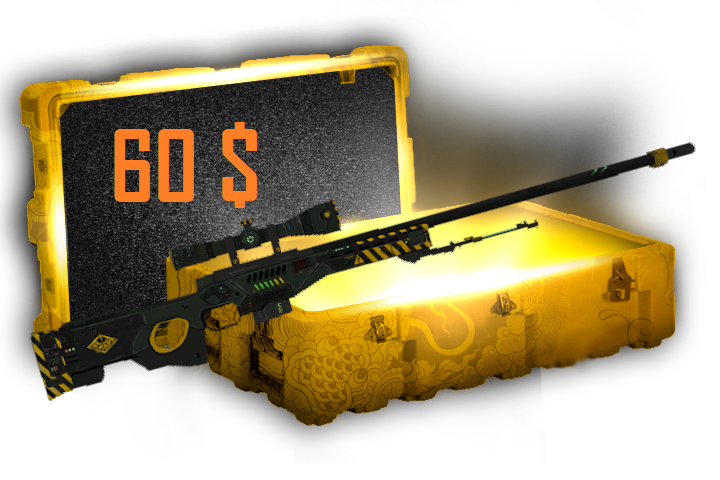
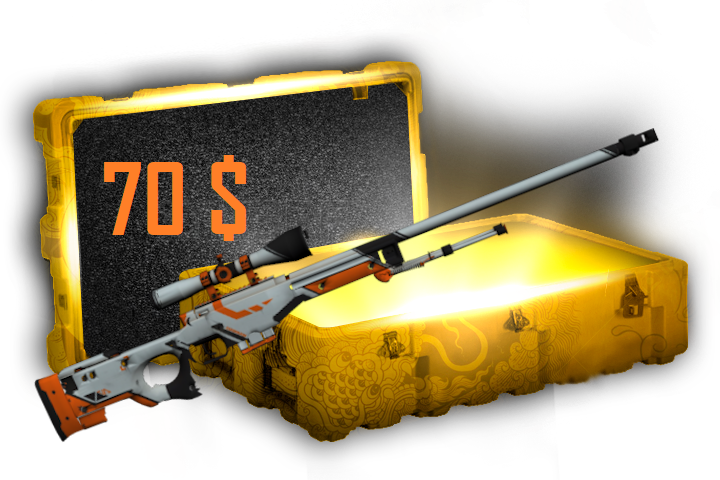
New update
New inventory system, deposit by codes (you can find some working codes in the txt file coupons)

diff --git a/main.py b/main.py
@@ -1,16 +1,22 @@
 from tkinter import*
+from tkinter.messagebox import*
 import case
-import random
+import random,deposit
 
 def update_user_account(ID):
-    print("Bought case "+casenames[ID]+" for "+str(case_prices[ID])+" $.")
+    global user_coins,case_prices
+    user_coins-=case_prices[ID]
+    balance.config(text="Balance: "+str(user_coins))
 
 def keepSkin(info):
-    print("KEEP ",info)
+    global inventory
+    inventory.append(info)
     main_menu(None)
 
 def sellSkin(info):
-    print("SOLD ",info)
+    global user_coins
+    user_coins+=info[1]
+    balance.config(text="Balance: "+str(user_coins))
     main_menu(None)
 
 def case_info(ID):
@@ -38,25 +44,35 @@ def open_case(ID):
             Button(frame,text="Instant sell for "+str(info[1])+" $. ",font="Verdana 12",bg="green",width=22,height=2,command= lambda x = info: sellSkin(x)).grid(column=0,row=1,padx=5,pady=5)
             Button(frame,text="Send to inventory.",font="Verdana 12",bg="orange",width=22,height=2,command= lambda x = info: keepSkin(x)).grid(column=1,row=1,padx=5,pady=5)
 
-    global index
+    global index,user_coins
 
-    update_user_account(ID)
-    for widget in frame.winfo_children():
-        widget.destroy()
-    index=0
+    if user_coins-case_prices[ID] >= 0:
+        update_user_account(ID)
+        for widget in frame.winfo_children():
+            widget.destroy()
+        index=0
 
-    info=case.pull(filenames[ID])
-    images_representation=case.generate_image_series(filenames[ID])
-    images_representation.append(info[0])
+        info=case.pull(filenames[ID])
+        images_representation=case.generate_image_series(filenames[ID])
+        images_representation.append(info[0])
 
-    label1=Label(frame,borderwidth=2, relief="solid")
-    label1.grid(column=0,row=0,padx=20,pady=10,columnspan=2)
-    fen.after(100,changeImage,index,images_representation,info)
+        label1=Label(frame,borderwidth=2, relief="solid")
+        label1.grid(column=0,row=0,padx=20,pady=10,columnspan=2)
+        menubar.entryconfig(1,state=DISABLED)
+        menubar.entryconfig(2,state=DISABLED)
+        menubar.entryconfig(3,state=DISABLED)
+        fen.after(100,changeImage,index,images_representation,info)
+    else:
+        showerror("Error","Not enough balance to open this case.")
+        main_menu(None)
 
 def main_menu(event):
     for widget in frame.winfo_children():
         widget.destroy()
 
+    menubar.entryconfig(1,state=NORMAL)
+    menubar.entryconfig(2,state=NORMAL)
+    menubar.entryconfig(3,state=NORMAL)
     fen.title("CS:GO Case opening")
 
     photo1=PhotoImage(file=case_thumbnails[0])
@@ -77,16 +93,89 @@ def main_menu(event):
     b3.image=photo3
     b3.grid(column=2,row=0,padx=10,pady=10)
 
+def item_iventory(ID):
+    for widget in frame.winfo_children():
+        widget.destroy()
+    Button(frame,text="Send to account",width=50,height=2).grid(column=0,row=0,padx=50,pady=20,sticky=W)
+    Button(frame,text="Sell back",command = lambda x = ID: delete_item(x),width=50,height=2).grid(column=0,row=1,padx=50,pady=20,sticky=W)
+
+def delete_item(ID):
+    global inventory,user_coins
+    user_coins+=inventory[ID][1]
+    balance.config(text="Balance: "+str(user_coins))
+    del inventory[ID]
+    inventoryUI()
+
+def inventoryUI():
+    global inventory
+    items=[]
+    total=0
+    for widget in frame.winfo_children():
+        widget.destroy()
+
+    for loop in range(len(inventory)):
+        total+=inventory[loop][1]
+        photo=PhotoImage(file="Images/skins/"+inventory[loop][0])
+        photo=photo.subsample(3,3)
+        items.append(Button(frame,image=photo,text=inventory[loop][0].split(".")[0]+" / "+str(inventory[loop][1])+" $",compound="top",command = lambda x = loop: item_iventory(x)))
+        items[-1].image=photo
+        items[-1].grid(column=loop%4,row=loop//4,padx=10,pady=10)
+    try:
+        print(loop)
+    except:
+        loop=-1
+    Label(frame,text="Total inventory value: "+str(total),bg="grey40",font="Verdana 11").grid(column=0,row=loop//4+1,padx=10,pady=10)
+
+        
+
+def depositUI():
+
+    def checkCODE():
+        global user_coins
+        user_coins+=deposit.check_coupon(code.get())
+        balance.config(text="Balance: "+str(user_coins))
+        main_menu(None)
+
+    for widget in frame.winfo_children():
+        widget.destroy()
+
+    Label(frame,text="Promo code: ",bg="grey40").grid(column=0,row=0,padx=10,pady=20)
+    code=StringVar()
+    Entry(frame,textvariable=code,width=35).grid(column=1,row=0,padx=10,pady=10)
+    Button(frame,text="Confirm",command = checkCODE,width=50,bg="green").grid(column=0,row=1,columnspan=2,padx=20,pady=10)
+
 filenames=["Cases/case1.txt","Cases/case2.txt","Cases/case3.txt"]
 casenames=["AWP-DELUXE-CASE","AK-DELUXE-CASE","M4-DELUXE-CASE"]
-case_prices=[60,66,66]
+case_prices=[70,66,66]
 case_thumbnails=["Images/cases/Case1.png","Images/cases/Case2.png","Images/cases/Case3.png"]
 
 inventory=[]
+user_coins=1000
 
 fen=Tk()
+
+menubar = Menu(fen)
+
+menu0 = Menu(menubar, tearoff=0)
+menu0.add_command(label="Home", command= lambda x = None: main_menu(x))
+menubar.add_cascade(label="Home", menu=menu0)
+
+menu1 = Menu(menubar, tearoff=0)
+menu1.add_command(label="Deposit",command = depositUI)
+menubar.add_cascade(label="Deposit", menu=menu1)
+
+menu2 = Menu(menubar, tearoff=0)
+menu2.add_command(label="Inventory", command=inventoryUI)
+menubar.add_cascade(label="Inventory", menu=menu2)
+
+fen.config(menu=menubar)
+
 frame=Frame(fen,bg="grey40")
-frame.grid(column=0,row=0)
+frame.grid(column=0,row=0,columnspan=3)
+
+balance=Label(fen,text="Balance: "+str(user_coins),font="Verdana 10")
+balance.grid(column=0,row=1,padx=10,pady=10)
+
 main_menu(None)
 
 fen.mainloop()

diff --git a/case.py b/case.py
@@ -25,7 +25,7 @@ def get_case_info(filename):
     skins=[]
     
     for loop in content:
-        skins.append([int(loop.split(";")[0]),int(loop.split(";")[1]),loop.split(";")[2].rstrip(),int(loop.split(";")[3].rstrip())])
+        skins.append([int(loop.split(";")[0]),int(loop.split(";")[1]),loop.split(";")[2].rstrip(),float(loop.split(";")[3].rstrip())])
         
     return skins
 
@@ -35,7 +35,7 @@ def pull(filename):
     skins=[]
     
     for loop in content:
-        skins.append([int(loop.split(";")[0]),int(loop.split(";")[1]),loop.split(";")[2].rstrip(),int(loop.split(";")[3].rstrip())])
+        skins.append([int(loop.split(";")[0]),int(loop.split(";")[1]),loop.split(";")[2].rstrip(),float(loop.split(";")[3].rstrip())])
 
     result,price=get_skin_from_ticket(random.randint(0,99999),skins)
     return result,price
@@ -46,7 +46,7 @@ def get_expected_value(filename):
         content=f.readlines()
     skins=[]
     for loop in content:
-        skins.append([int(loop.split(";")[0]),int(loop.split(";")[1]),loop.split(";")[2].rstrip(),int(loop.split(";")[3])])
+        skins.append([int(loop.split(";")[0]),int(loop.split(";")[1]),loop.split(";")[2].rstrip(),float(loop.split(";")[3])])
 
     drops={}
     total=0
@@ -59,7 +59,6 @@ def get_expected_value(filename):
             drops[result]=1
         else:
             drops[result]+=1
-
     print(drops,total/amountLoop)
 
 #get_expected_value("Cases/case1.txt")

diff --git a/deposit.py b/deposit.py
@@ -1,0 +1,17 @@
+def get_all_coupons():
+    with open("coupons.txt","r") as f:
+        content=f.readlines()
+    coupons=[]
+    for loop in content:
+        coupons.append((loop.split(";")[0],int(loop.split(";")[1].rsplit()[0])))
+    return coupons
+
+
+def check_coupon(code):
+    value=0
+    coupons=get_all_coupons()
+    for loop in coupons:
+        if loop[0]==code:
+            value=loop[1]
+            break
+    return value
